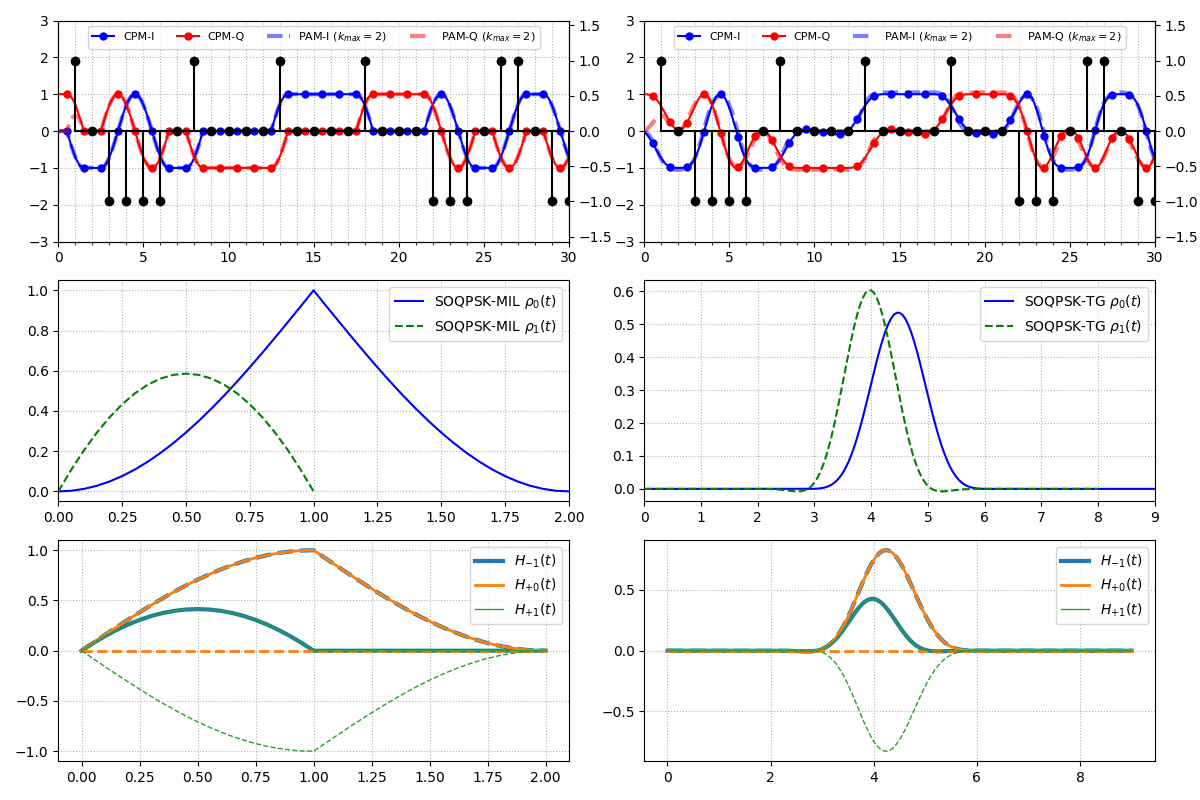
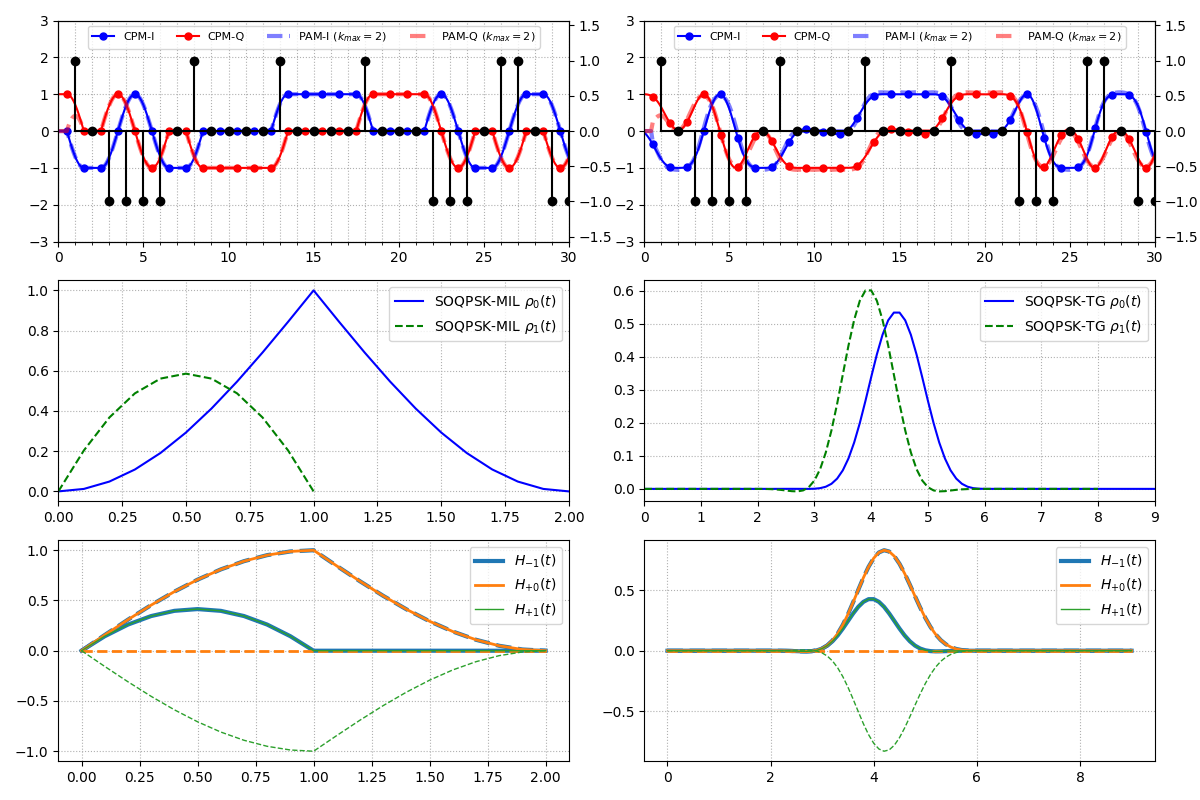
Calculate normalized mean square error for PAM approx, compare to expected.

diff --git a/examples/soqpsk_pam.py b/examples/soqpsk_pam.py
@@ -30,16 +30,27 @@ if TYPE_CHECKING:
 # Set seeds so iterations on implementation can be compared better
 rng = np.random.Generator(np.random.PCG64(seed=1))
 
+
+# PRBS sequence
 PN_DEGREE = 13
 DATA_GEN = PNSequence(PN_DEGREE)
 DATA_BUFFER = np.packbits(DATA_GEN.generate_sequence())
 
 
+# Logger
+_logger = logging.getLogger(__name__)
+
+
 if __name__ == "__main__":
     logging.basicConfig(level=logging.INFO)
+
     # Constants
-    sps = 20
-    pam_use_superposition = True  # Switch between two equivalent methods of PAM superposition
+    sps = 10
+    pam_use_superposition = False  # Switch between two equivalent methods of PAM superposition
+    theoretical_nsme = {  # From E. Perrins Thesis, pg51
+        "MIL": 0,
+        "TG": 4.26e-3,
+    }
 
     # Bits of information to transmit
     bit_array = np.unpackbits(DATA_BUFFER)
@@ -207,9 +218,21 @@ if __name__ == "__main__":
                 )
 
         # Plot PAM Approximation
+        pam_approx = pam_approx[pam_delay : -truncate or None]
+        pam_approx_error = np.power(
+            np.abs(pam_approx[:] - modulated_signal[:pam_approx.size]),
+            2,
+        )[d_max : - d_max]  # Crop "incomplete" approximated symbols.
+        nmse = pam_approx_error.sum() / pam_approx_error.size
+        msg = (
+            f"Calculated NMSE = {nmse:.3e}. "
+            f"Theoretical NMSE = {theoretical_nsme[label]:.3e}."
+        )
+        _logger.info(msg)
+
         iq_ax.plot(
             normalized_time[: -pam_delay or None],
-            pam_approx.real[pam_delay : -truncate or None],
+            pam_approx.real,
             "b--",
             alpha=0.5,
             linewidth=3,
@@ -217,7 +240,7 @@ if __name__ == "__main__":
         )
         iq_ax.plot(
             normalized_time[: -pam_delay or None],
-            pam_approx.imag[pam_delay : -truncate or None],
+            pam_approx.imag,
             "r--",
             alpha=0.5,
             linewidth=3,
@@ -246,16 +269,23 @@ if __name__ == "__main__":
     qpsk_esque_signal[sps:] += pam_approx.real[:-sps]
     qpsk_esque_signal[:] += pam_approx.imag * 1j
 
+    # Create and format constellation axis
     fig_const, ax_const = plt.subplots(1, figsize=(4, 4), dpi=100)
     ax_const.set_xlim([-2, 2])
     ax_const.set_ylim([-2, 2])
+    ax_const.xaxis.set_major_locator(MultipleLocator(1))
+    ax_const.xaxis.set_minor_locator(MultipleLocator(0.25))
+    ax_const.yaxis.set_major_locator(MultipleLocator(1))
+    ax_const.yaxis.set_minor_locator(MultipleLocator(0.25))
     ax_const.set_title("SOQPSK PAM Approximation Constellation")
-    fig_const = plot_constellation(
+
+    plot_constellation(
         signal=qpsk_esque_signal[:: sps * 2][L:-L],
         n=8192,
         axis=ax_const,
         linestyle=" ",
         marker="s",
+        color="g",
     )
 
     images_dir = Path(__file__).parent.parent / "images"
